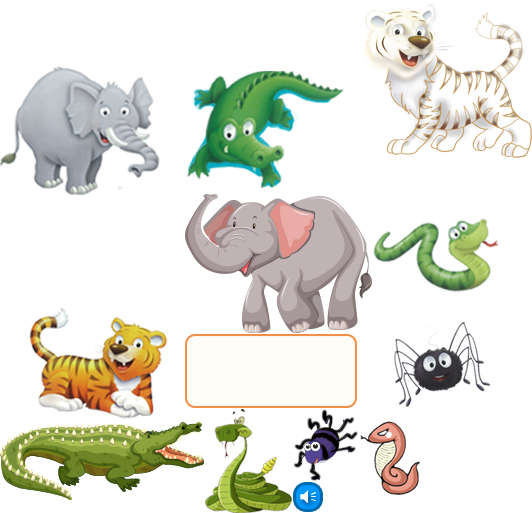
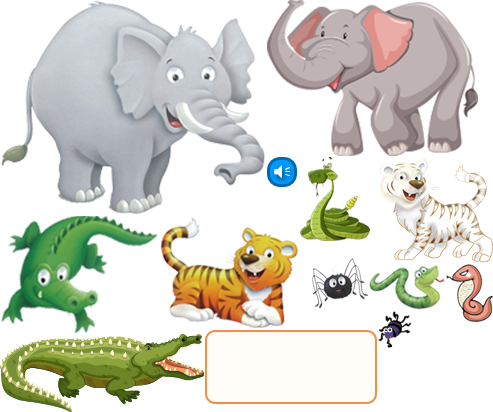
泡泡游戏离开的动物可以重复点击bug修复

diff --git a/bin/js/ui/layaUI.max.all.js b/bin/js/ui/layaUI.max.all.js
@@ -36,7 +36,7 @@ var ui;
             _super.prototype.createChildren.call(this);
             this.createView(ui.DragAnimalUI.uiView);
         };
-        DragAnimalUI.uiView = { "type": "View", "props": { "width": 1024, "height": 768 }, "child": [{ "type": "Image", "props": { "y": 0, "x": 0, "skin": "DragAnimal/main-bg.png" } }, { "type": "Image", "props": { "y": 666, "x": 30, "skin": "DragAnimal/bottom-bg.png" } }, { "type": "Image", "props": { "y": 666, "x": 228, "skin": "DragAnimal/bottom-bg.png" } }, { "type": "Image", "props": { "y": 666, "x": 426, "skin": "DragAnimal/bottom-bg.png" } }, { "type": "Image", "props": { "y": 666, "x": 624, "skin": "DragAnimal/bottom-bg.png" } }, { "type": "Image", "props": { "y": 666, "x": 822, "skin": "DragAnimal/bottom-bg.png" } }, { "type": "Image", "props": { "y": 672, "x": 36, "var": "crocodileAudio", "skin": "DragAnimal/audio.png" } }, { "type": "Image", "props": { "y": 672, "x": 234, "var": "elephantAudio", "skin": "DragAnimal/audio.png" } }, { "type": "Image", "props": { "y": 673, "x": 433, "var": "snakeAudio", "skin": "DragAnimal/audio.png" } }, { "type": "Image", "props": { "y": 673, "x": 632, "var": "spiderAudio", "skin": "DragAnimal/audio.png" } }, { "type": "Image", "props": { "y": 674, "x": 829, "var": "tigerAudio", "skin": "DragAnimal/audio.png" } }, { "type": "Image", "props": { "y": 570, "x": 858, "var": "replayBtn", "skin": "common/replay-disabled.png" } }, { "type": "Image", "props": { "y": 414, "x": 520, "var": "crocodile1", "skin": "DragAnimal/crocodile1.png" } }, { "type": "Image", "props": { "y": 516, "x": 678, "var": "crocodile2", "skin": "DragAnimal/crocodile2.png" } }, { "type": "Image", "props": { "y": 238, "x": 109, "var": "elephant1", "skin": "DragAnimal/elephant1.png" } }, { "type": "Image", "props": { "y": 452, "x": 265, "var": "elephant2", "skin": "DragAnimal/elephant2.png" } }, { "type": "Image", "props": { "y": 333, "x": 447, "var": "snake1", "skin": "DragAnimal/snake1.png" } }, { "type": "Image", "props": { "y": 340, "x": 755, "var": "snake2", "skin": "DragAnimal/snake2.png" } }, { "type": "Image", "props": { "y": 260, "x": 288, "var": "snake3", "skin": "DragAnimal/snake3.png" } }, { "type": "Image", "props": { "y": 232, "x": 751, "var": "spider1", "skin": "DragAnimal/spider1.png" } }, { "type": "Image", "props": { "y": 240, "x": 879, "var": "spider2", "skin": "DragAnimal/spider2.png" } }, { "type": "Image", "props": { "y": 406, "x": 66, "var": "tiger1", "skin": "DragAnimal/tiger1.png" } }, { "type": "Image", "props": { "y": 221, "x": 535, "var": "tiger2", "skin": "DragAnimal/tiger2.png" } }, { "type": "Image", "props": { "y": 660, "x": 67, "width": 70, "var": "crocodile1Small", "skin": "DragAnimal/crocodile1.png", "height": 68 } }, { "type": "Image", "props": { "y": 687, "x": 118, "width": 82, "var": "crocodile2Small", "skin": "DragAnimal/crocodile2.png", "height": 34 } }, { "type": "Image", "props": { "y": 657, "x": 261, "width": 76, "var": "elephant1Small", "skin": "DragAnimal/elephant1.png", "height": 79 } }, { "type": "Image", "props": { "y": 680, "x": 326, "width": 68, "var": "elephant2Small", "skin": "DragAnimal/elephant2.png", "height": 45 } }, { "type": "Image", "props": { "y": 692, "x": 507, "width": 40, "var": "snake1Small", "skin": "DragAnimal/snake1.png", "height": 45 } }, { "type": "Image", "props": { "y": 677, "x": 464, "width": 37, "var": "snake2Small", "skin": "DragAnimal/snake2.png", "height": 45 } }, { "type": "Image", "props": { "y": 648, "x": 513, "width": 88, "var": "snake3Small", "skin": "DragAnimal/snake3.png", "height": 59 } }, { "type": "Image", "props": { "y": 680, "x": 667, "width": 52, "var": "spider1Small", "skin": "DragAnimal/spider1.png", "height": 51 } }, { "type": "Image", "props": { "y": 654, "x": 710, "width": 83, "var": "spider2Small", "skin": "DragAnimal/spider2.png", "height": 85 } }, { "type": "Image", "props": { "y": 636, "x": 905, "width": 88, "var": "tiger1Small", "skin": "DragAnimal/tiger1.png", "height": 81 } }, { "type": "Image", "props": { "y": 686, "x": 859, "width": 64, "var": "tiger2Small", "skin": "DragAnimal/tiger2.png", "height": 50 } }] };
+        DragAnimalUI.uiView = { "type": "View", "props": { "width": 1024, "height": 768 }, "child": [{ "type": "Image", "props": { "y": 0, "x": 0, "skin": "DragAnimal/main-bg.png" } }, { "type": "Image", "props": { "y": 666, "x": 30, "skin": "DragAnimal/bottom-bg.png" } }, { "type": "Image", "props": { "y": 666, "x": 228, "skin": "DragAnimal/bottom-bg.png" } }, { "type": "Image", "props": { "y": 666, "x": 426, "skin": "DragAnimal/bottom-bg.png" } }, { "type": "Image", "props": { "y": 666, "x": 624, "skin": "DragAnimal/bottom-bg.png" } }, { "type": "Image", "props": { "y": 666, "x": 822, "skin": "DragAnimal/bottom-bg.png" } }, { "type": "Image", "props": { "y": 672, "x": 36, "var": "crocodileAudio", "skin": "DragAnimal/audio.png" } }, { "type": "Image", "props": { "y": 672, "x": 234, "var": "elephantAudio", "skin": "DragAnimal/audio.png" } }, { "type": "Image", "props": { "y": 673, "x": 433, "var": "snakeAudio", "skin": "DragAnimal/audio.png" } }, { "type": "Image", "props": { "y": 673, "x": 632, "var": "spiderAudio", "skin": "DragAnimal/audio.png" } }, { "type": "Image", "props": { "y": 674, "x": 829, "var": "tigerAudio", "skin": "DragAnimal/audio.png" } }, { "type": "Image", "props": { "y": 570, "x": 858, "var": "replayBtn", "skin": "common/replay-disabled.png" } }, { "type": "Image", "props": { "y": 467, "x": 508, "var": "crocodile1", "skin": "DragAnimal/crocodile1.png" } }, { "type": "Image", "props": { "y": 507, "x": 702, "var": "crocodile2", "skin": "DragAnimal/crocodile2.png" } }, { "type": "Image", "props": { "y": 228, "x": 182, "var": "tiger1", "skin": "DragAnimal/tiger1.png" } }, { "type": "Image", "props": { "y": 410, "x": 292, "var": "snake2", "skin": "DragAnimal/snake2.png" } }, { "type": "Image", "props": { "y": 410, "x": 9, "var": "elephant1", "skin": "DragAnimal/elephant1.png" } }, { "type": "Image", "props": { "y": 250, "x": 448, "var": "elephant2", "skin": "DragAnimal/elephant2.png" } }, { "type": "Image", "props": { "y": 525, "x": 370, "var": "snake1", "skin": "DragAnimal/snake1.png" } }, { "type": "Image", "props": { "y": 368, "x": 753, "var": "snake3", "skin": "DragAnimal/snake3.png" } }, { "type": "Image", "props": { "y": 306, "x": 18, "var": "spider1", "skin": "DragAnimal/spider1.png" } }, { "type": "Image", "props": { "y": 269, "x": 905, "var": "spider2", "skin": "DragAnimal/spider2.png" } }, { "type": "Image", "props": { "y": 215, "x": 689, "var": "tiger2", "skin": "DragAnimal/tiger2.png" } }, { "type": "Image", "props": { "y": 678, "x": 67, "width": 70, "var": "crocodile1Small", "skin": "DragAnimal/crocodile1.png", "height": 58 } }, { "type": "Image", "props": { "y": 692, "x": 120, "width": 79, "var": "crocodile2Small", "skin": "DragAnimal/crocodile2.png", "height": 32 } }, { "type": "Image", "props": { "y": 674, "x": 258, "width": 72, "var": "elephant1Small", "skin": "DragAnimal/elephant1.png", "height": 52 } }, { "type": "Image", "props": { "y": 679, "x": 327, "width": 68, "var": "elephant2Small", "skin": "DragAnimal/elephant2.png", "height": 45 } }, { "type": "Image", "props": { "y": 690, "x": 508, "width": 40, "var": "snake1Small", "skin": "DragAnimal/snake1.png", "height": 45 } }, { "type": "Image", "props": { "y": 677, "x": 464, "width": 37, "var": "snake2Small", "skin": "DragAnimal/snake2.png", "height": 45 } }, { "type": "Image", "props": { "y": 669, "x": 523, "width": 71, "var": "snake3Small", "skin": "DragAnimal/snake3.png", "height": 41 } }, { "type": "Image", "props": { "y": 684, "x": 679, "width": 34, "var": "spider1Small", "skin": "DragAnimal/spider1.png", "height": 37 } }, { "type": "Image", "props": { "y": 658, "x": 718, "width": 68, "var": "spider2Small", "skin": "DragAnimal/spider2.png", "height": 71 } }, { "type": "Image", "props": { "y": 668, "x": 921, "width": 70, "var": "tiger1Small", "skin": "DragAnimal/tiger1.png", "height": 51 } }, { "type": "Image", "props": { "y": 686, "x": 859, "width": 64, "var": "tiger2Small", "skin": "DragAnimal/tiger2.png", "height": 50 } }] };
         return DragAnimalUI;
     }(View));
     ui.DragAnimalUI = DragAnimalUI;

diff --git a/src/ui/layaUI.max.all.ts b/src/ui/layaUI.max.all.ts
@@ -30,14 +30,14 @@ module ui {
 		public replayBtn:Laya.Image;
 		public crocodile1:Laya.Image;
 		public crocodile2:Laya.Image;
+		public tiger1:Laya.Image;
+		public snake2:Laya.Image;
 		public elephant1:Laya.Image;
 		public elephant2:Laya.Image;
 		public snake1:Laya.Image;
-		public snake2:Laya.Image;
 		public snake3:Laya.Image;
 		public spider1:Laya.Image;
 		public spider2:Laya.Image;
-		public tiger1:Laya.Image;
 		public tiger2:Laya.Image;
 		public crocodile1Small:Laya.Image;
 		public crocodile2Small:Laya.Image;
@@ -51,7 +51,7 @@ module ui {
 		public tiger1Small:Laya.Image;
 		public tiger2Small:Laya.Image;
 
-        public static  uiView:any ={"type":"View","props":{"width":1024,"height":768},"child":[{"type":"Image","props":{"y":0,"x":0,"skin":"DragAnimal/main-bg.png"}},{"type":"Image","props":{"y":666,"x":30,"skin":"DragAnimal/bottom-bg.png"}},{"type":"Image","props":{"y":666,"x":228,"skin":"DragAnimal/bottom-bg.png"}},{"type":"Image","props":{"y":666,"x":426,"skin":"DragAnimal/bottom-bg.png"}},{"type":"Image","props":{"y":666,"x":624,"skin":"DragAnimal/bottom-bg.png"}},{"type":"Image","props":{"y":666,"x":822,"skin":"DragAnimal/bottom-bg.png"}},{"type":"Image","props":{"y":672,"x":36,"var":"crocodileAudio","skin":"DragAnimal/audio.png"}},{"type":"Image","props":{"y":672,"x":234,"var":"elephantAudio","skin":"DragAnimal/audio.png"}},{"type":"Image","props":{"y":673,"x":433,"var":"snakeAudio","skin":"DragAnimal/audio.png"}},{"type":"Image","props":{"y":673,"x":632,"var":"spiderAudio","skin":"DragAnimal/audio.png"}},{"type":"Image","props":{"y":674,"x":829,"var":"tigerAudio","skin":"DragAnimal/audio.png"}},{"type":"Image","props":{"y":570,"x":858,"var":"replayBtn","skin":"common/replay-disabled.png"}},{"type":"Image","props":{"y":414,"x":520,"var":"crocodile1","skin":"DragAnimal/crocodile1.png"}},{"type":"Image","props":{"y":516,"x":678,"var":"crocodile2","skin":"DragAnimal/crocodile2.png"}},{"type":"Image","props":{"y":238,"x":109,"var":"elephant1","skin":"DragAnimal/elephant1.png"}},{"type":"Image","props":{"y":452,"x":265,"var":"elephant2","skin":"DragAnimal/elephant2.png"}},{"type":"Image","props":{"y":333,"x":447,"var":"snake1","skin":"DragAnimal/snake1.png"}},{"type":"Image","props":{"y":340,"x":755,"var":"snake2","skin":"DragAnimal/snake2.png"}},{"type":"Image","props":{"y":260,"x":288,"var":"snake3","skin":"DragAnimal/snake3.png"}},{"type":"Image","props":{"y":232,"x":751,"var":"spider1","skin":"DragAnimal/spider1.png"}},{"type":"Image","props":{"y":240,"x":879,"var":"spider2","skin":"DragAnimal/spider2.png"}},{"type":"Image","props":{"y":406,"x":66,"var":"tiger1","skin":"DragAnimal/tiger1.png"}},{"type":"Image","props":{"y":221,"x":535,"var":"tiger2","skin":"DragAnimal/tiger2.png"}},{"type":"Image","props":{"y":660,"x":67,"width":70,"var":"crocodile1Small","skin":"DragAnimal/crocodile1.png","height":68}},{"type":"Image","props":{"y":687,"x":118,"width":82,"var":"crocodile2Small","skin":"DragAnimal/crocodile2.png","height":34}},{"type":"Image","props":{"y":657,"x":261,"width":76,"var":"elephant1Small","skin":"DragAnimal/elephant1.png","height":79}},{"type":"Image","props":{"y":680,"x":326,"width":68,"var":"elephant2Small","skin":"DragAnimal/elephant2.png","height":45}},{"type":"Image","props":{"y":692,"x":507,"width":40,"var":"snake1Small","skin":"DragAnimal/snake1.png","height":45}},{"type":"Image","props":{"y":677,"x":464,"width":37,"var":"snake2Small","skin":"DragAnimal/snake2.png","height":45}},{"type":"Image","props":{"y":648,"x":513,"width":88,"var":"snake3Small","skin":"DragAnimal/snake3.png","height":59}},{"type":"Image","props":{"y":680,"x":667,"width":52,"var":"spider1Small","skin":"DragAnimal/spider1.png","height":51}},{"type":"Image","props":{"y":654,"x":710,"width":83,"var":"spider2Small","skin":"DragAnimal/spider2.png","height":85}},{"type":"Image","props":{"y":636,"x":905,"width":88,"var":"tiger1Small","skin":"DragAnimal/tiger1.png","height":81}},{"type":"Image","props":{"y":686,"x":859,"width":64,"var":"tiger2Small","skin":"DragAnimal/tiger2.png","height":50}}]};
+        public static  uiView:any ={"type":"View","props":{"width":1024,"height":768},"child":[{"type":"Image","props":{"y":0,"x":0,"skin":"DragAnimal/main-bg.png"}},{"type":"Image","props":{"y":666,"x":30,"skin":"DragAnimal/bottom-bg.png"}},{"type":"Image","props":{"y":666,"x":228,"skin":"DragAnimal/bottom-bg.png"}},{"type":"Image","props":{"y":666,"x":426,"skin":"DragAnimal/bottom-bg.png"}},{"type":"Image","props":{"y":666,"x":624,"skin":"DragAnimal/bottom-bg.png"}},{"type":"Image","props":{"y":666,"x":822,"skin":"DragAnimal/bottom-bg.png"}},{"type":"Image","props":{"y":672,"x":36,"var":"crocodileAudio","skin":"DragAnimal/audio.png"}},{"type":"Image","props":{"y":672,"x":234,"var":"elephantAudio","skin":"DragAnimal/audio.png"}},{"type":"Image","props":{"y":673,"x":433,"var":"snakeAudio","skin":"DragAnimal/audio.png"}},{"type":"Image","props":{"y":673,"x":632,"var":"spiderAudio","skin":"DragAnimal/audio.png"}},{"type":"Image","props":{"y":674,"x":829,"var":"tigerAudio","skin":"DragAnimal/audio.png"}},{"type":"Image","props":{"y":570,"x":858,"var":"replayBtn","skin":"common/replay-disabled.png"}},{"type":"Image","props":{"y":467,"x":508,"var":"crocodile1","skin":"DragAnimal/crocodile1.png"}},{"type":"Image","props":{"y":507,"x":702,"var":"crocodile2","skin":"DragAnimal/crocodile2.png"}},{"type":"Image","props":{"y":228,"x":182,"var":"tiger1","skin":"DragAnimal/tiger1.png"}},{"type":"Image","props":{"y":410,"x":292,"var":"snake2","skin":"DragAnimal/snake2.png"}},{"type":"Image","props":{"y":410,"x":9,"var":"elephant1","skin":"DragAnimal/elephant1.png"}},{"type":"Image","props":{"y":250,"x":448,"var":"elephant2","skin":"DragAnimal/elephant2.png"}},{"type":"Image","props":{"y":525,"x":370,"var":"snake1","skin":"DragAnimal/snake1.png"}},{"type":"Image","props":{"y":368,"x":753,"var":"snake3","skin":"DragAnimal/snake3.png"}},{"type":"Image","props":{"y":306,"x":18,"var":"spider1","skin":"DragAnimal/spider1.png"}},{"type":"Image","props":{"y":269,"x":905,"var":"spider2","skin":"DragAnimal/spider2.png"}},{"type":"Image","props":{"y":215,"x":689,"var":"tiger2","skin":"DragAnimal/tiger2.png"}},{"type":"Image","props":{"y":678,"x":67,"width":70,"var":"crocodile1Small","skin":"DragAnimal/crocodile1.png","height":58}},{"type":"Image","props":{"y":692,"x":120,"width":79,"var":"crocodile2Small","skin":"DragAnimal/crocodile2.png","height":32}},{"type":"Image","props":{"y":674,"x":258,"width":72,"var":"elephant1Small","skin":"DragAnimal/elephant1.png","height":52}},{"type":"Image","props":{"y":679,"x":327,"width":68,"var":"elephant2Small","skin":"DragAnimal/elephant2.png","height":45}},{"type":"Image","props":{"y":690,"x":508,"width":40,"var":"snake1Small","skin":"DragAnimal/snake1.png","height":45}},{"type":"Image","props":{"y":677,"x":464,"width":37,"var":"snake2Small","skin":"DragAnimal/snake2.png","height":45}},{"type":"Image","props":{"y":669,"x":523,"width":71,"var":"snake3Small","skin":"DragAnimal/snake3.png","height":41}},{"type":"Image","props":{"y":684,"x":679,"width":34,"var":"spider1Small","skin":"DragAnimal/spider1.png","height":37}},{"type":"Image","props":{"y":658,"x":718,"width":68,"var":"spider2Small","skin":"DragAnimal/spider2.png","height":71}},{"type":"Image","props":{"y":668,"x":921,"width":70,"var":"tiger1Small","skin":"DragAnimal/tiger1.png","height":51}},{"type":"Image","props":{"y":686,"x":859,"width":64,"var":"tiger2Small","skin":"DragAnimal/tiger2.png","height":50}}]};
         constructor(){ super()}
         createChildren():void {
         

diff --git a/bin/js/BubbleAnimal/BubbleAnimalMain.js b/bin/js/BubbleAnimal/BubbleAnimalMain.js
@@ -103,6 +103,7 @@ var BubbleAnimalMain = /** @class */ (function (_super) {
         if (this.clickNum < 10)
             return;
         var btn1 = this.getChildByName("ani" + num + "-2");
+        btn1.off(Laya.Event.CLICK, this, this.btnCLick);
         Laya.SoundManager.playMusic("res/audio/21-aniout.mp3", 1);
         Laya.Tween.to(btn1, { x: 500, y: 250, scaleX: .3, scaleY: .3 }, 2000, Laya.Ease.linearIn, null, 100);
         Laya.timer.once(2000, this, function () {

diff --git a/src/BubbleAnimal/BubbleAnimalMain.ts b/src/BubbleAnimal/BubbleAnimalMain.ts
@@ -102,6 +102,7 @@ class BubbleAnimalMain extends ui.BubbleAnimalUI {
     public btnCLick(num:number){
         if(this.clickNum < 10) return;
         let btn1 = this.getChildByName("ani"+num+"-2") as Laya.Image;
+            btn1.off(Laya.Event.CLICK,this,this.btnCLick);
         Laya.SoundManager.playMusic("res/audio/21-aniout.mp3",1);
         Laya.Tween.to(btn1,{x:500,y:250,scaleX:.3,scaleY:.3},2000,Laya.Ease.linearIn,null,100);
         
